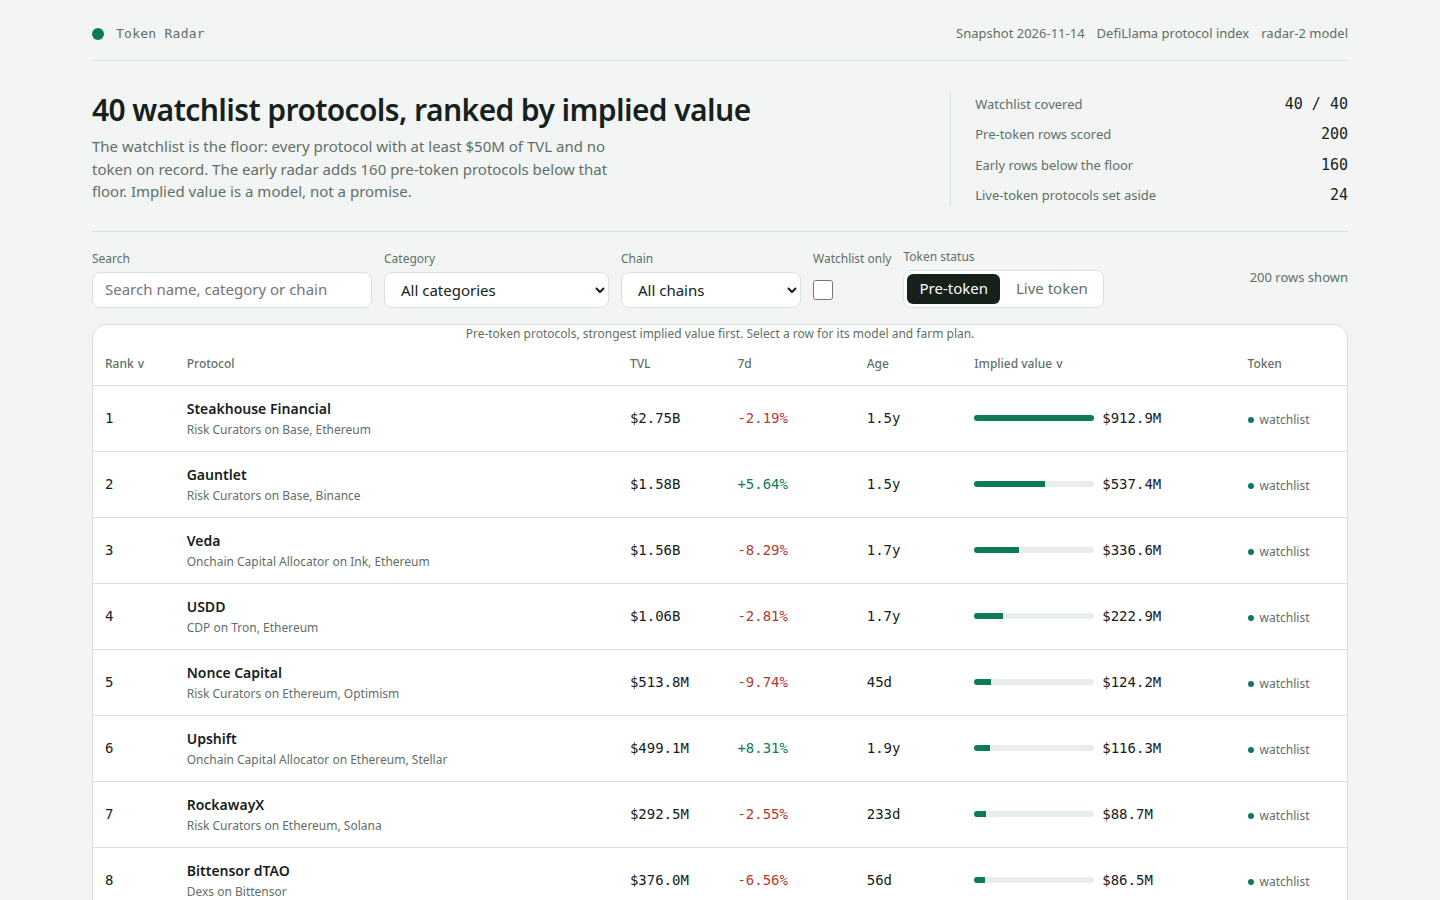
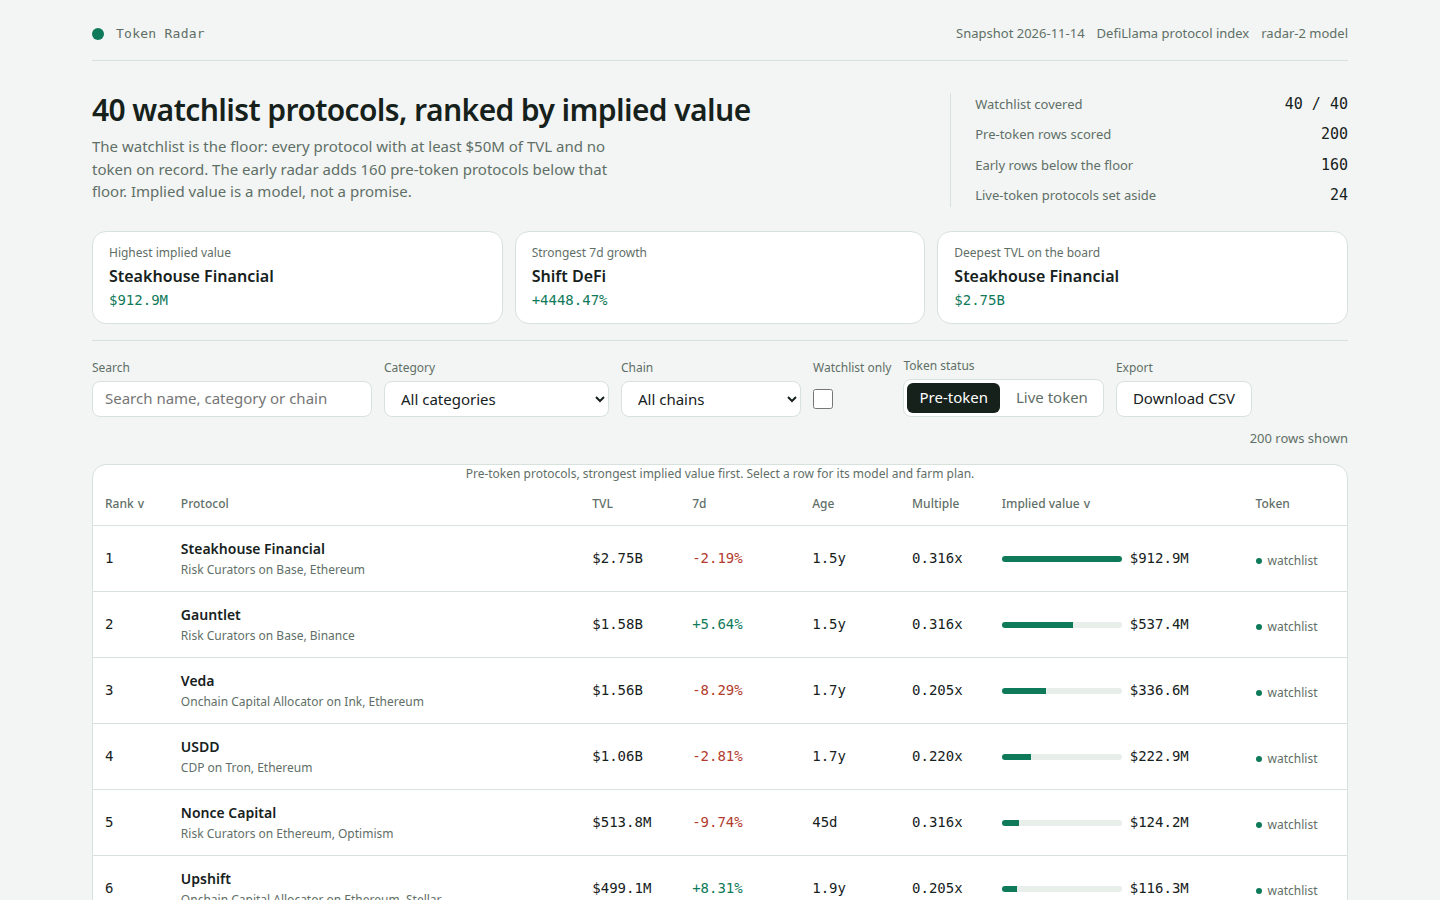
Add eligibility step to farm plans, board statistics, highlights strip, CSV export, multiple column and slash-to-search

diff --git a/dashboard/app.js b/dashboard/app.js
@@ -100,6 +100,7 @@
       else if (key === 'tvl') { av = a.tvl_usd; bv = b.tvl_usd; }
       else if (key === 'growth') { av = a.change_7d === null ? -Infinity : a.change_7d; bv = b.change_7d === null ? -Infinity : b.change_7d; }
       else if (key === 'age') { av = a.age_days === null ? Infinity : a.age_days; bv = b.age_days === null ? Infinity : b.age_days; }
+      else if (key === 'multiple') { av = a.multiple; bv = b.multiple; }
       else { av = a.implied_value_usd; bv = b.implied_value_usd; }
       if (av < bv) return -state.dir;
       if (av > bv) return state.dir;
@@ -133,6 +134,44 @@
     );
   }
 
+  // Three figures over the whole board, recomputed from the same rows the table shows: the
+  // leader, the week's strongest gainer, and the deepest pool. They are links into the detail
+  // drawer, so a highlight is a way into a row, not a separate claim about it.
+  function highlights() {
+    var byImplied = DATA.rows.slice().sort(function (a, b) { return b.implied_value_usd - a.implied_value_usd; });
+    var gainers = DATA.rows.filter(function (r) { return r.change_7d !== null; }).sort(function (a, b) { return b.change_7d - a.change_7d; });
+    var byTvl = DATA.rows.slice().sort(function (a, b) { return b.tvl_usd - a.tvl_usd; });
+    function card(label, row, figure) {
+      return el('button', { type: 'button', class: 'highlight', onclick: function () { openDetail(row.slug); } },
+        el('span', { class: 'sub', text: label }),
+        el('b', { text: row.name }),
+        el('span', { class: 'num', text: figure })
+      );
+    }
+    return el('section', { class: 'highlights', 'aria-label': 'Board highlights' },
+      byImplied.length ? card('Highest implied value', byImplied[0], fmtUsd(byImplied[0].implied_value_usd)) : null,
+      gainers.length ? card('Strongest 7d growth', gainers[0], fmtPct(gainers[0].change_7d)) : null,
+      byTvl.length ? card('Deepest TVL on the board', byTvl[0], fmtUsd(byTvl[0].tvl_usd)) : null
+    );
+  }
+
+  // The filtered board as a CSV download, built in the page from the rows on screen: the same
+  // figures, in a form a farmer can keep next to a farm log.
+  function exportCsv() {
+    var head = 'rank,protocol,category,chains,tvl_usd,change_7d_pct,age_days,category_multiple,implied_value_usd,watchlist';
+    var lines = sortedRows(rows()).map(function (r) {
+      function cell(v) { return '"' + String(v === null || v === undefined ? '' : v).replace(/"/g, '""') + '"'; }
+      return [r.rank, cell(r.name), cell(r.category || 'Other'), cell((r.chains || []).join(' ')), r.tvl_usd, r.change_7d === null ? '' : r.change_7d, r.age_days === null ? '' : r.age_days, r.multiple, r.implied_value_usd, r.on_watchlist ? 'yes' : 'no'].join(',');
+    });
+    var blob = new Blob([head + '\n' + lines.join('\n') + '\n'], { type: 'text/csv' });
+    var url = URL.createObjectURL(blob);
+    var a = el('a', { href: url, download: 'token-radar-board.csv' });
+    document.body.appendChild(a);
+    a.click();
+    a.remove();
+    setTimeout(function () { URL.revokeObjectURL(url); }, 1000);
+  }
+
   function controls() {
     var categories = Array.from(new Set(DATA.rows.map(function (r) { return r.category || 'Other'; }))).sort();
     var search = el('input', { type: 'search', id: 'q', placeholder: 'Search name, category or chain', value: state.q, 'aria-label': 'Search the board' });
@@ -158,6 +197,7 @@
       el('div', { class: 'field' }, el('label', { for: 'chain', text: 'Chain' }), chainSelect),
       el('div', { class: 'field' }, el('label', { for: 'watchlist-only', text: 'Watchlist only' }), wl),
       el('div', { class: 'field' }, el('span', { class: 'sub', text: 'Token status' }), el('div', { class: 'tabs' }, pre, live)),
+      el('div', { class: 'field' }, el('span', { class: 'sub', text: 'Export' }), el('button', { class: 'button', type: 'button', text: 'Download CSV', onclick: exportCsv })),
       el('span', { class: 'count', text: state.tab === 'pre-token' ? rows().length + ' rows shown' : DATA.live.length + ' live-token protocols' })
     );
   }
@@ -199,6 +239,7 @@
         el('td', { class: 'num', text: fmtUsd(r.tvl_usd) }),
         el('td', { class: 'num ' + growthClass, text: growth }),
         el('td', { class: 'num', text: fmtAge(r.age_days) }),
+        el('td', { class: 'num', text: r.multiple.toFixed(3) + 'x' }),
         el('td', null, el('div', { class: 'implied' },
           el('div', { class: 'bar', 'aria-hidden': 'true' }, el('i', { style: 'width:' + Math.max(3, Math.round((r.implied_value_usd / max) * 100)) + '%' })),
           el('span', { class: 'num', text: fmtUsd(r.implied_value_usd) })
@@ -217,6 +258,7 @@
             sortHeader('tvl', 'TVL'),
             sortHeader('growth', '7d'),
             sortHeader('age', 'Age'),
+            sortHeader('multiple', 'Multiple'),
             sortHeader('implied', 'Implied value'),
             el('th', { scope: 'col', text: 'Token' })
           )),
@@ -331,6 +373,7 @@
     var shell = el('div', { class: 'shell' });
     shell.appendChild(header());
     shell.appendChild(lede());
+    if (state.tab === 'pre-token') shell.appendChild(highlights());
     shell.appendChild(controls());
     shell.appendChild(state.tab === 'pre-token' ? boardTable() : liveTable());
     if (state.tab === 'pre-token') shell.appendChild(modelPanel());
@@ -344,5 +387,15 @@
   render();
   window.addEventListener('keydown', function (e) {
     if (e.key === 'Escape' && dialog.open) dialog.close();
+    // Slash jumps to the search box from anywhere outside a field, the way a radar operator
+    // expects: filter first, scroll later.
+    if (e.key === '/' && !dialog.open) {
+      var tag = (document.activeElement && document.activeElement.tagName) || '';
+      if (tag !== 'INPUT' && tag !== 'SELECT' && tag !== 'TEXTAREA') {
+        e.preventDefault();
+        var q = document.getElementById('q');
+        if (q) q.focus();
+      }
+    }
   });
 })();

diff --git a/lib/model.ts b/lib/model.ts
@@ -392,6 +392,20 @@ function actionFor(p: SnapshotProtocol, capital: number, chain: string): string 
   return `Deposit $${capital} of USDC into ${name} on ${chain} and keep the position open.`;
 }
 
+/** The eligibility check that fits the category, done before any capital moves. */
+function verifyStepFor(p: SnapshotProtocol): string {
+  const c = (p.category ?? '').toLowerCase();
+  const name = p.name;
+  if (c.includes('lend') || c.includes('cdp') || c.includes('collateral')) return `Confirm on ${name}'s own site that the market you will supply to is live and not paused, and note its liquidation terms.`;
+  if (c.includes('dex')) return `Confirm on ${name}'s own site that the pool you will join is the canonical one linked from its app, not a look-alike pair.`;
+  if (c.includes('bridge')) return `Confirm the bridge route on ${name}'s own site and check its status page shows no pause or incident before you send funds.`;
+  if (c.includes('staking') || c.includes('restak')) return `Confirm on ${name}'s own site the unbonding period and slashing terms, and that withdrawals are currently enabled.`;
+  if (c.includes('perpetual') || c.includes('derivative')) return `Confirm on ${name}'s own site that trading is live in your region and read its liquidation and funding terms.`;
+  if (c.includes('curator') || c.includes('allocator')) return `Confirm on ${name}'s own site which vaults the curator manages and that deposits are open in the one you picked.`;
+  if (c.includes('rwa') || c.includes('stable')) return `Confirm on ${name}'s own site who may hold and redeem the asset, and whether redemption is open or waitlisted.`;
+  return `Confirm on ${name}'s own site, reached from its official listing, that deposits are open and the app is not paused.`;
+}
+
 /** The weekly qualifying action that fits the category, so the plan's rhythm matches its position. */
 function weeklyActionFor(p: SnapshotProtocol): string {
   const c = (p.category ?? '').toLowerCase();
@@ -420,6 +434,11 @@ export function farmSteps(p: SnapshotProtocol, age: number | null): FarmStep[] {
       text: `Use a fresh wallet that holds only the funds you plan to farm, and keep its seed phrase offline.`,
       cost: 'under $3 of gas for the first transaction',
       time: '5 minutes',
+    },
+    {
+      text: verifyStepFor(p),
+      cost: 'nothing to check, and never pay for eligibility',
+      time: '10 minutes',
     },
     {
       text: action,
@@ -581,6 +600,28 @@ export function boardIssue(board: BoardRow[], snapshot: Snapshot): string | null
     if (!Number.isSafeInteger(r.implied_value_usd) || r.implied_value_usd <= 0) return `${r.slug} has implied value ${r.implied_value_usd}`;
   }
   return null;
+}
+
+/** Headline figures over a finished board, for the run's own summary line. */
+export interface BoardStats {
+  top_slug: string;
+  top_implied_usd: number;
+  median_implied_usd: number;
+  total_tvl_usd: number;
+  distinct_categories: number;
+}
+
+/** The board's own statistics: its leader, its median row, its combined TVL and its category spread. */
+export function summarizeBoard(board: BoardRow[]): BoardStats {
+  const implied = board.map((r) => r.implied_value_usd).sort((a, b) => a - b);
+  const categories = new Set(board.map((r) => r.category ?? 'Other'));
+  return {
+    top_slug: board.length > 0 ? board[0]!.slug : '',
+    top_implied_usd: board.length > 0 ? board[0]!.implied_value_usd : 0,
+    median_implied_usd: implied.length > 0 ? implied[Math.floor(implied.length / 2)]! : 0,
+    total_tvl_usd: board.reduce((sum, r) => sum + r.tvl_usd, 0),
+    distinct_categories: categories.size,
+  };
 }
 
 /** A compact data.js: the dashboard's whole dataset as one script, no fetch and no network. */

diff --git a/dashboard/app.css b/dashboard/app.css
@@ -102,6 +102,15 @@ tbody tr[data-selected="true"] { background: color-mix(in srgb, var(--accent) 8%
 .status { display: inline-flex; align-items: center; gap: 6px; color: var(--muted); font-size: 12px; white-space: nowrap; }
 .status::before { content: ""; width: 6px; height: 6px; border-radius: 50%; background: var(--accent); }
 
+.highlights { display: grid; grid-template-columns: repeat(3, minmax(0, 1fr)); gap: var(--step-3); padding-bottom: var(--step-4); }
+.highlight {
+  display: grid; gap: 2px; text-align: left; padding: var(--step-3) var(--step-4);
+  background: var(--surface); border: 1px solid var(--border); border-radius: var(--radius-panel);
+}
+.highlight b { font-size: 16px; font-weight: 600; overflow-wrap: anywhere; }
+.highlight .num { color: var(--accent); font-size: 14px; }
+.highlight:hover { border-color: var(--accent); }
+
 .model { margin-top: var(--step-4); padding: var(--step-5); display: grid; gap: var(--step-3); }
 .model .table-wrap { margin-top: var(--step-2); border: 1px solid var(--border); border-radius: var(--radius-control); }
 .model table caption { padding: var(--step-3); text-align: left; }
@@ -136,6 +145,7 @@ tbody tr[data-selected="true"] { background: color-mix(in srgb, var(--accent) 8%
 .cost { color: var(--muted); font-size: 12px; font-family: var(--font-num); }
 
 @media (max-width: 900px) {
+  .highlights { grid-template-columns: 1fr; }
   .shell { padding: var(--step-4); }
   .lede { grid-template-columns: 1fr; gap: var(--step-4); }
   .facts { border-left: 0; border-top: 1px solid var(--border); padding-left: 0; padding-top: var(--step-4); }

diff --git a/main.ts b/main.ts
@@ -16,7 +16,7 @@
 import { copyFileSync, existsSync, mkdirSync, readFileSync, readdirSync, statSync, writeFileSync } from 'node:fs';
 import { join } from 'node:path';
 import { fileURLToPath } from 'node:url';
-import { boardIssue, buildRadar, dataScript, parseSnapshot } from './lib/model.ts';
+import { boardIssue, buildRadar, dataScript, parseSnapshot, summarizeBoard } from './lib/model.ts';
 import { buildDossier } from './vendor/makefun-board.ts';
 
 const here = fileURLToPath(new URL('.', import.meta.url));
@@ -85,7 +85,9 @@ for (const name of shots) {
 // The dossier is written last: the scorer rebuilds it from this /output and compares bytes.
 writeFileSync(join(out, 'dossier.json'), buildDossier(out, { text_max_bytes: TEXT_MAX_BYTES, screenshots: SCREENSHOT_CAPS, dashboard: { max_files: 400, max_bytes: 4_194_304 } }));
 
+const stats = summarizeBoard(board);
 process.stdout.write(
   `token radar: ${snapshot.protocols.length} protocols, ${snapshot.watchlist.length} on the watchlist, ${board.length} rows scored (${radar.early_size} early, ${radar.live_size} live set aside)\n` +
+    `token radar: leader ${stats.top_slug} at $${stats.top_implied_usd}, median row $${stats.median_implied_usd}, board TVL $${Math.round(stats.total_tvl_usd)}, ${stats.distinct_categories} categories\n` +
     `token radar: wrote ${join(out, 'board.json')}, ${join(out, 'data.js')}, ${join(out, 'dashboard')} (3 files), ${join(out, 'screenshots')} (${shots.length} images) and ${join(out, 'dossier.json')}\n`,
 );
